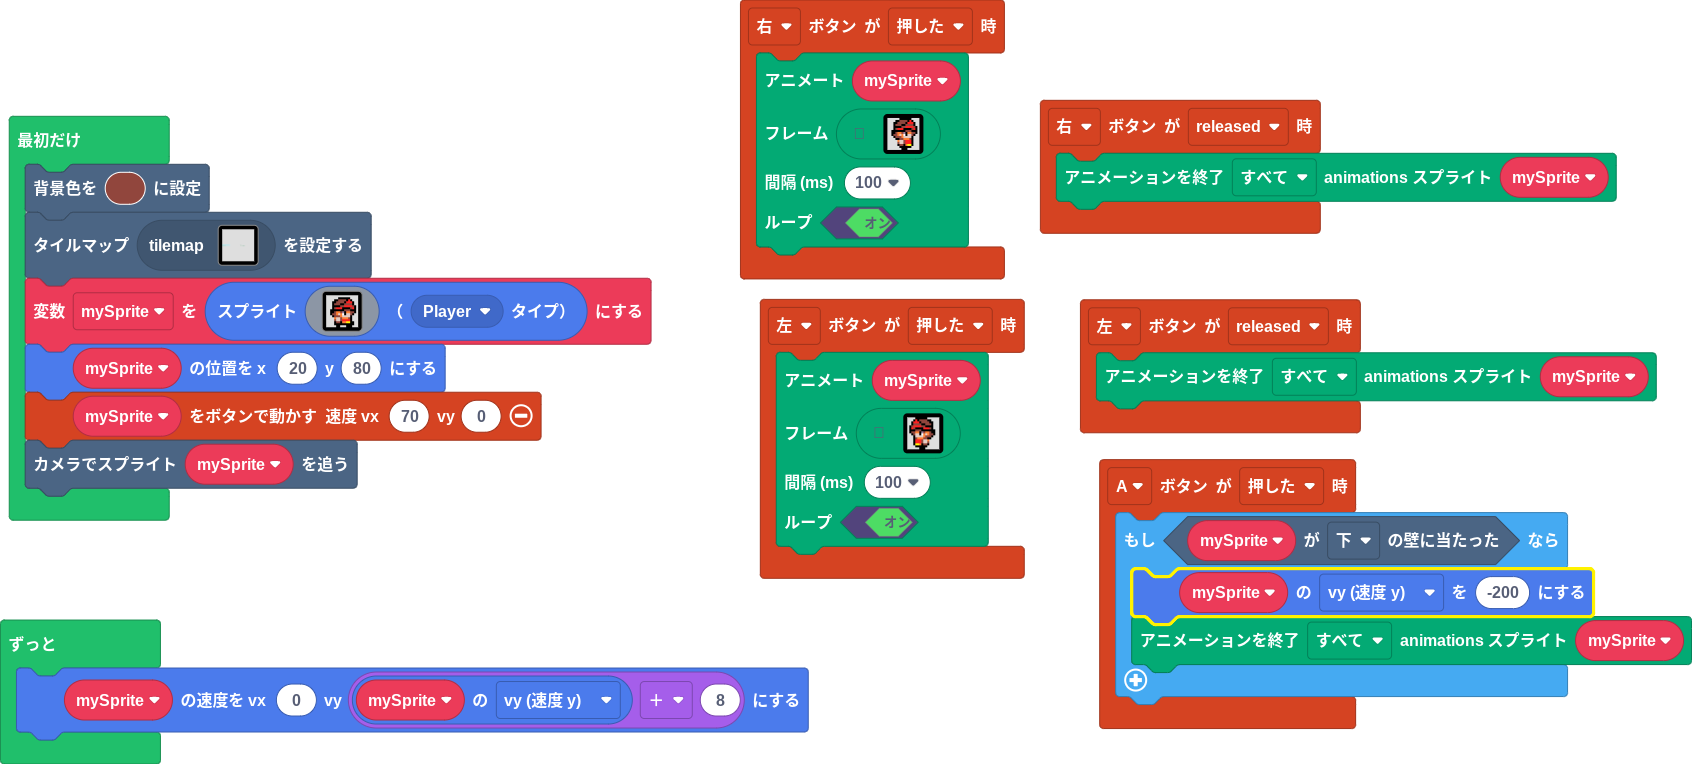
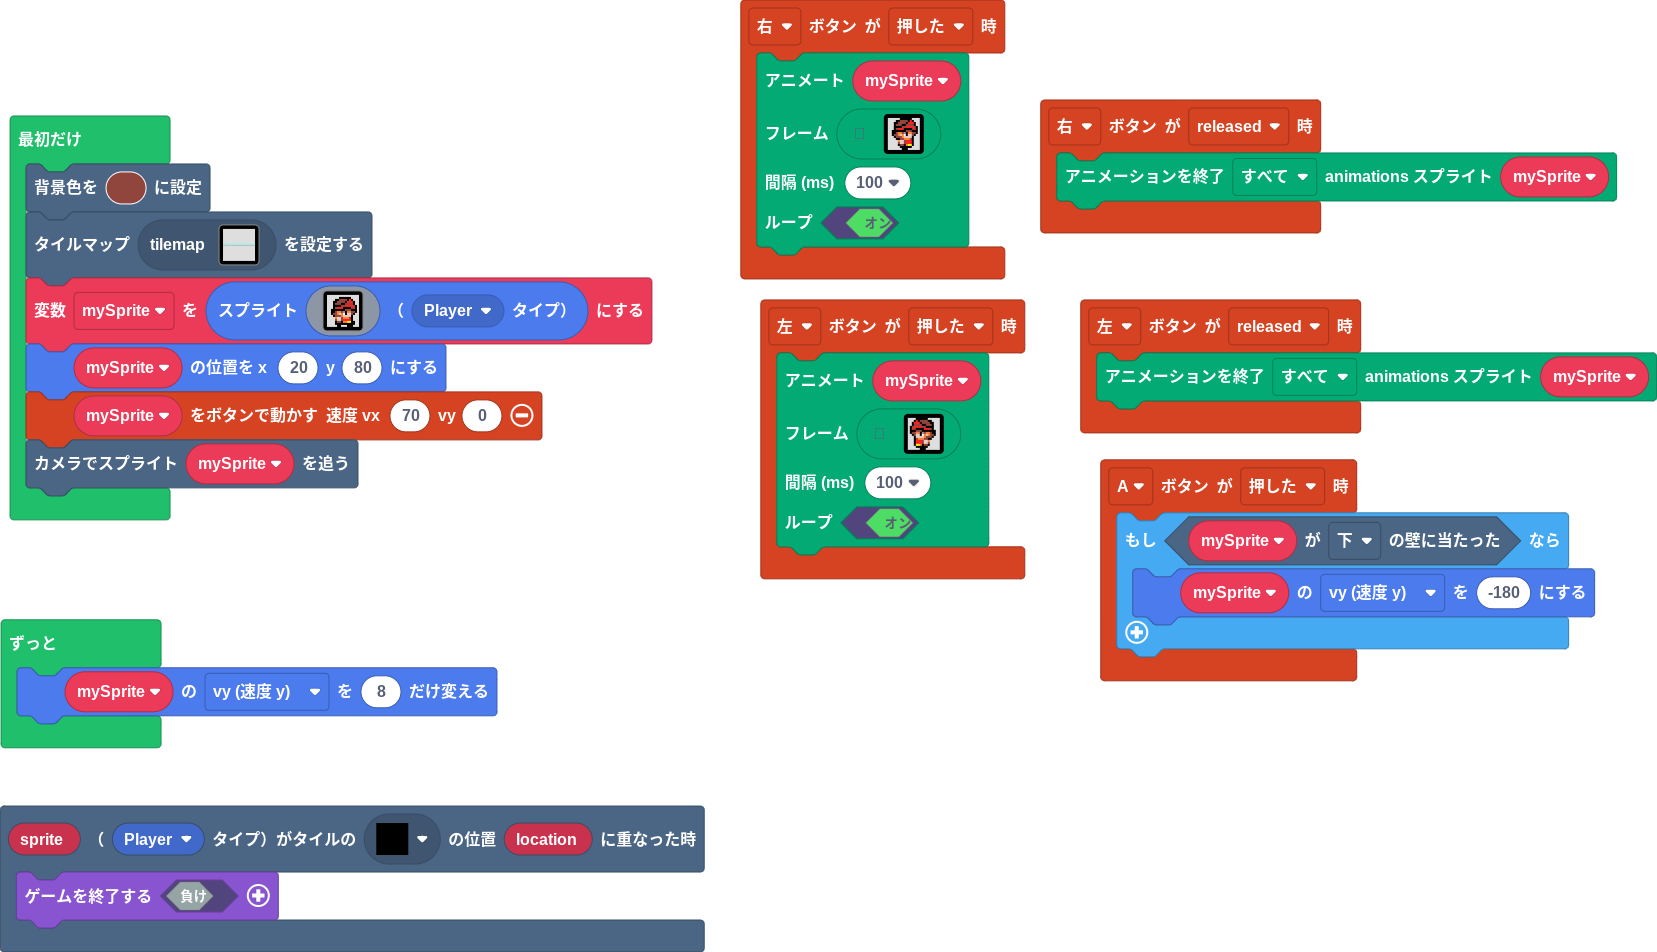
更新 pxt.json, main.blocks, main.ts, tilemap.g.jres, tilemap.g.ts

diff --git a/tilemap.g.ts b/tilemap.g.ts
@@ -4,19 +4,25 @@ namespace myTiles {
     export const transparency16 = image.ofBuffer(hex``);
     //% fixedInstance jres blockIdentity=images._tile
     export const tile1 = image.ofBuffer(hex``);
+    //% fixedInstance jres blockIdentity=images._tile
+    export const tile2 = image.ofBuffer(hex``);
+    //% fixedInstance jres blockIdentity=images._tile
+    export const tile3 = image.ofBuffer(hex``);
 
     helpers._registerFactory("tilemap", function(name: string) {
         switch(helpers.stringTrim(name)) {
             case "レベル1":
-            case "レベル1":return tiles.createTilemap(hex`78000700030303030303030303030303030303030303030303030303030303030300000000000000000000000000000000000000000000000000000000000000000000000000000000000000000000000000000000000000000000000000000000000000000000000000000000000000000000000000000000000000030303030303030303030303030303030303030303030303030303030300000000000000000000000000000000000000000000000000000000000000000000000000000101000000000000000000000000000000000000000000000000000000000000000000000000000000000000000000000000000000030303030303030303030303030303030303030303030303030303030300000000000000000000000000000000000000000000000000000000000000000000000000000000010000000000000000000000000000000000000000000000000000000000000000000000000000000000000000000000000000030303030303030303030303030303030303030303030303030303030300000000000000000000000000000000000000000000000000000000000000000000000000000000000101010000000000000000000000000000000000000000000000000000000000000000000000000000000000000000000000030303030303030303030303030303030303030303030303030303030300000000000000000000000000000000000000000000000000000000000000000000000000000000000000010101000000000000000000000000000000000000000000000000000000000000000000000000000000000000000000030303030303030303030303030303030303030303030303030303030300000000000000000000000000000000000000000000000000000000000000000000000000000000000000000000010100000101010101000000000000000000000000000000000000000000000000000000000000000000000000020202020202020202020202020200000000000000000000000000000000000000000000000000000000000000000000000000000000000000000000000000000000000001010101000000000101010101010101010000000000000000000000000000000000000000000000000000000000000000000000`, img`
-........................................................................................................................
-........................................................................................................................
-........................................................................................................................
-........................................................................................................................
-........................................................................................................................
-........................................................................................................................
-22222222222222..........................................................................................................
-`, [myTiles.transparency16,sprites.builtin.forestTiles0,sprites.builtin.forestTiles2,myTiles.tile1], TileScale.Sixteen);
+            case "レベル1":return tiles.createTilemap(hex`64000900020202020202020202020202020202020202020202020202020202020202020202020202020202020202020202020202020202020202020202020202020202020202020202020202020202020202020202020202020202020202020202020202020202020202020202020202020202020202020202020202020202020202020202020202020202020202020202020202020202020202020202020202020202020202020202020202020202020202020202020202020202020202020202020202020202020202020202020202020202020202020202020202020202020202020202020202020202020202020202020202020202020202020202020202020202020202020202020202020202020202020202020202020202020202020202020202020202020202020202020202020202020202020202020202020202020202020202020202020202020202020202020202020202020202020202020202020202020202020202020202020202020202020202020202020202020202020202020202020202020202020202020202020202020202020202020202020202020202020202020202020202020202020202020202020202020202020202020202020202020202020202020202020202020202020202020202020202020202020202020202020202020202020202020202020202020202020202020202020202020202020202020202020202020202020202020202020202020202020202020202020202020202020202020202020202020202020202020202020202020202020202020202020202020202020202020202020202020202020202020202020202020202020202020202020202020202020202020202020202020202020202020202020202020202020202020202020202020202020202020202020202020202020202020202020202020202020202020202020202020202020202020202020202020101010101010101010101010106020202020202020501010101010101010101010101010101010101010106020501060202020707020702020207020202050101010101060202050101010101010101010101010101010101010101010101010101010104040404040404040404040404040303030501010104040404040404040404040404040404040404040404040304040403030304040304030303040303030404040404040403030404040404040404040404040404040404040404040404040404040404`, img`
+....................................................................................................
+....................................................................................................
+....................................................................................................
+....................................................................................................
+....................................................................................................
+....................................................................................................
+....................................................................................................
+22222222222222.......22222222222222222222222.222...22.2...2...2222222..222222222222222222222222222..
+.................2222...............................................................................
+`, [myTiles.transparency16,sprites.builtin.forestTiles2,myTiles.tile1,myTiles.tile2,myTiles.tile3,sprites.builtin.forestTiles1,sprites.builtin.forestTiles3,sprites.builtin.forestTiles4], TileScale.Sixteen);
         }
         return null;
     })
@@ -26,6 +32,10 @@ namespace myTiles {
             case "transparency16":return transparency16;
             case "myTile":
             case "tile1":return tile1;
+            case "myTile0":
+            case "tile2":return tile2;
+            case "myTile1":
+            case "tile3":return tile3;
         }
         return null;
     })

diff --git a/main.ts b/main.ts
@@ -1,3 +1,6 @@
+scene.onOverlapTile(SpriteKind.Player, assets.tile`myTile0`, function (sprite, location) {
+    game.over(false)
+})
 controller.right.onEvent(ControllerButtonEvent.Pressed, function () {
     animation.runImageAnimation(
     mySprite,
@@ -158,8 +161,7 @@ controller.left.onEvent(ControllerButtonEvent.Released, function () {
 })
 controller.A.onEvent(ControllerButtonEvent.Pressed, function () {
     if (mySprite.isHittingTile(CollisionDirection.Bottom)) {
-        mySprite.vy = -200
-        animation.stopAnimation(animation.AnimationTypes.All, mySprite)
+        mySprite.vy = -180
     }
 })
 let mySprite: Sprite = null
@@ -187,5 +189,5 @@ mySprite.setPosition(20, 80)
 controller.moveSprite(mySprite, 70, 0)
 scene.cameraFollowSprite(mySprite)
 forever(function () {
-    mySprite.setVelocity(0, mySprite.vy + 8)
+    mySprite.vy += 8
 })
